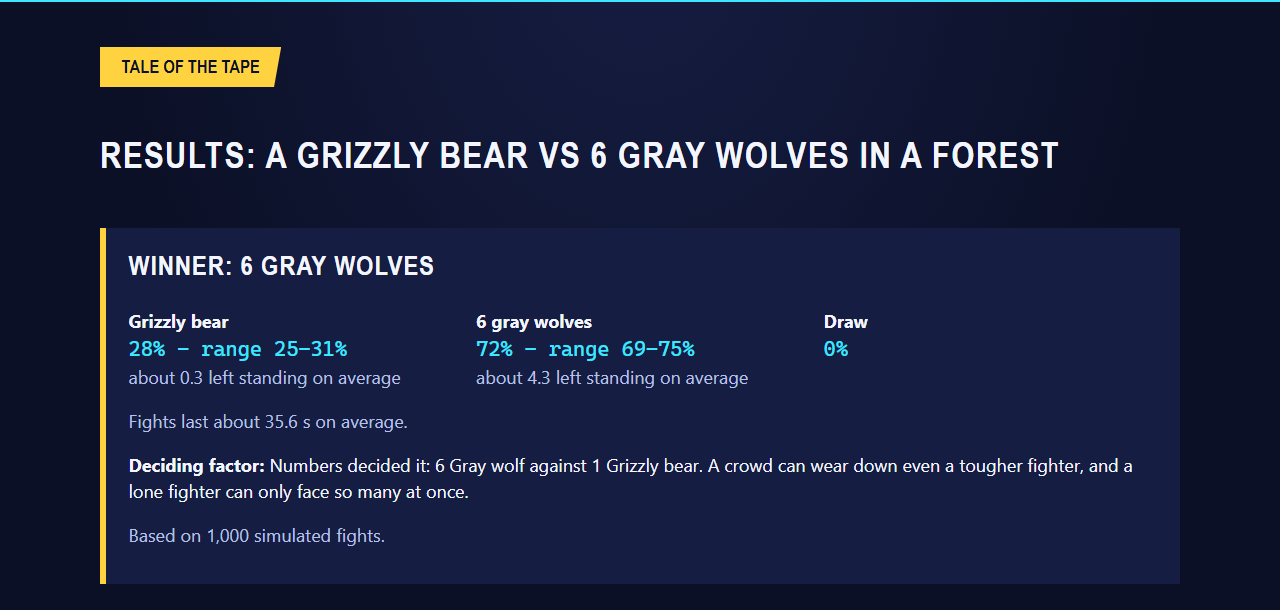
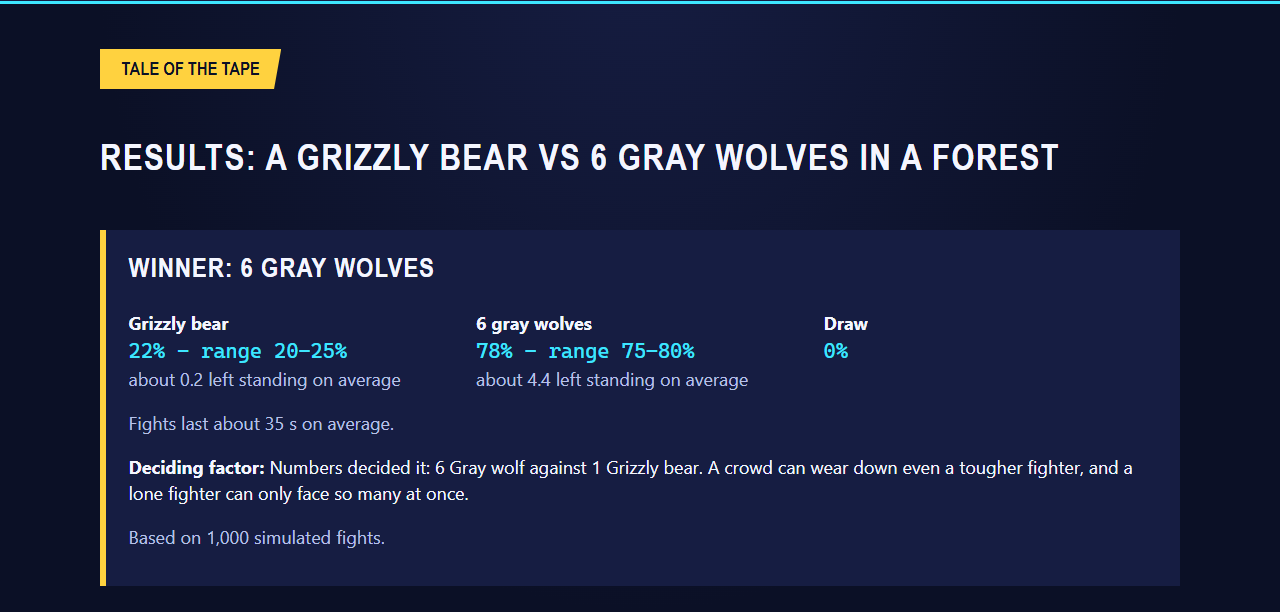
Finish Mike's D09 review items: clone and ingest pictures, re-shot results, current messages (Part of #49)
- New terminal pictures for step 2 (git clone) and step 5 (npm run ingest).
- Step 5 now says ingest takes about half an hour and which lines are normal; it
  took 30 min (1,814 s) live on Windows.
- Re-shot 12, 13 and 15 from a fresh live run on main e1d7a24 (engine 12): 78%,
  range 75-80%, numbers decided it; alt text and examples updated.
- Named-characters row uses #322's message; "Still stuck?" points to env:check.

diff --git a/docs/user-guide.md b/docs/user-guide.md
@@ -67,6 +67,8 @@ Then move the terminal into that folder:
 cd battleRoyale
 ```
 
+![Terminal showing git clone downloading the project into a battleRoyale folder, then cd battleRoyale](images/user-guide/01b-clone.png)
+
 > **No Git?** On the project's GitHub page you can click the green **Code** button, then **Download ZIP**, and unzip it somewhere easy. To move the terminal into that folder, type `cd ` (with a space), drag the folder from File Explorer or Finder onto the terminal window, and press Enter. Everything works, except that `npm run setup` (step 4) ends with a *"not a git repository"* (or *"git is not recognized"*) error after the installs finish. That last part only turns on a check for people changing the code, so you can ignore it.
 
 ### Step 3: Connect the course AI endpoints (optional)
@@ -103,7 +105,9 @@ If you did step 3, run this once:
 npm run ingest
 ```
 
-It downloads the reference articles the app researches fighters from, and takes a few minutes. You only need it once, not every time you start the app. In mock mode (you skipped step 3) you don't need it.
+It downloads the reference articles the app researches fighters from. It takes a while (about half an hour on a laptop), and it's quiet for long stretches, so let it run. Lines like "Parser skipped…" and "No trait match…" are normal. It's done when it prints a table and "Finished in … s". You only need it once, not every time you start the app. In mock mode (you skipped step 3) you don't need it.
+
+![Terminal showing npm run ingest finishing with a table: 30 fighters, 30 documents, 0 failures, then "Finished in 1814 s."](images/user-guide/03b-ingest.png)
 
 ### Step 6: Start the app
 
@@ -170,13 +174,13 @@ The fight replays one of the simulated fights. The floating minus numbers are da
 
 At the end, the verdict shows the winner, their win chance, and the reason in one line.
 
-![The verdict: "Winner: 6 gray wolves!", win chance 72% with range 69–75% over 1,000 simulated fights, and the deciding factor](images/user-guide/12-verdict.jpg)
+![The verdict: "Winner: 6 gray wolves!", win chance 78% with range 75–80% over 1,000 simulated fights, and the deciding factor: numbers decided it](images/user-guide/12-verdict.jpg)
 
 ### Read the results page
 
 Click **See the full results**. Each part, top to bottom:
 
-- **Win chance and range.** For example "72% – range 69–75%". The app runs about 1,000 fights, and each one draws the fighters' stats from within their known range. The range shows how sure the result is, given how uncertain the stats are. It also shows how many fighters are usually left standing and how long fights last.
+- **Win chance and range.** For example "78% – range 75–80%". The app runs about 1,000 fights, and each one draws the fighters' stats from within their known range. The range shows how sure the result is, given how uncertain the stats are. It also shows how many fighters are usually left standing and how long fights last.
 - **Deciding factor.** The one thing that mattered most, such as numbers, size, speed or armor. Code finds it by testing which stat changes the result most.
 
 ![The top of the results page: winner, win chance and range for each side, draw chance, average fight length, and the deciding factor](images/user-guide/13-results-verdict.png)
@@ -215,7 +219,7 @@ The app politely turns some requests away, and tells you why:
 | It won't use | Why | What you'll see |
 |---|---|---|
 | **Real people** (alive or historical) | It's not fair or kind to stage fights between real people. | "We keep real people out of the ring. Try a type of fighter instead, like a Roman legionary or a medieval knight." |
-| **Named fictional characters** | They belong to their creators, and they have no real-world stats to look up. | "Named characters belong to their creators, so they can't step in. Try a creature type instead, like a dragon or a giant robot." |
+| **Named characters**, from stories or from myth | They belong to their creators or their legends, and they have no real-world stats to look up. | "Named characters, from stories or from myth, sit this one out. Try a creature type instead, like a dragon or a giant robot." |
 | **Gods and deities** | No sources measure them, and they matter to many people. | "Gods are above our pay grade. Try a mythical creature, like a griffin, instead." |
 | **Firearms and explosives** | The app keeps things PG. | "No firearms or explosives in this arena. Vehicles and machines are welcome, like a bulldozer." |
 | **Groups of people** (nations, armies, teams) | Jokes are about the fighters, never about groups of people. | "We don't pit groups of people against each other. Pick an animal, a machine, or one fighter type like a Viking." |
@@ -242,4 +246,4 @@ The show is PG: knockouts and retreats, no blood or gore.
 | **"The knowledge base is empty, so new fighters can't be researched yet"** when you start the app | You're in live mode and skipped [step 5](#step-5-build-the-knowledge-base-live-mode-only). Stop the app with Ctrl+C, run `npm run ingest` once, then `npm start` again. |
 | **Everything looks like sample data** | You're in mock mode, which is fine for trying the app. To use the real AI endpoints, do [step 3](#step-3-connect-the-course-ai-endpoints-optional), then run `npm run ingest` once and restart the app. |
 
-Still stuck? Run `npm run doctor`. It checks your computer's setup and says what to fix, without showing any secret values.
+Still stuck? Run `npm run env:check`. It checks your settings file and says what to fix, without showing any secret values.
